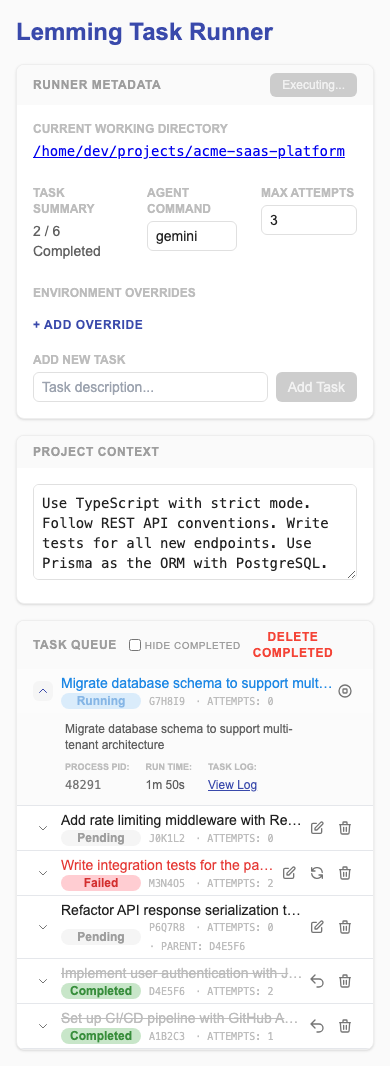
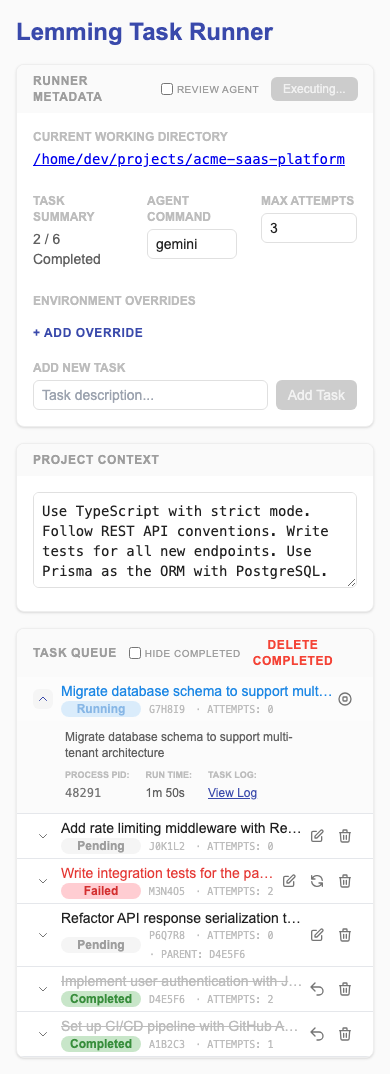
Add review agent that adapts the roadmap after each task
Introduces an optional reviewer that runs after each task execution to
evaluate roadmap progress and heal stuck tasks. Enabled via --review flag
on CLI or the "Review Agent" checkbox in the web UI.

diff --git a/src/lemming/web/index.html b/src/lemming/web/index.html
@@ -18,16 +18,22 @@
         <section class="mb-4 bg-white rounded-lg shadow-sm border border-gray-200 overflow-hidden shrink-0" aria-labelledby="metadata-heading">
             <div class="py-2 px-4 border-b border-gray-200 bg-gray-50 flex justify-between items-center">
                 <h2 id="metadata-heading" class="text-xs font-semibold text-gray-500 uppercase tracking-wider">Runner Metadata</h2>
-                <button 
-                    type="submit" 
-                    form="run-form" 
-                    :prop:disabled="loopRunning"
-                    :attr:class="'px-3 py-1 transition duration-200 border-none rounded-md text-xs font-medium whitespace-nowrap ' + (loopRunning ? 'bg-gray-400 cursor-not-allowed text-gray-200' : 'bg-indigo-600 text-white hover:bg-indigo-700')"
-                    :attr:title="loopRunning ? 'Tasks are already executing' : 'Execute autonomous tasks'" 
-                    aria-label="Execute Tasks"
-                >
-                    {{ loopRunning ? 'Executing...' : 'Execute Tasks' }}
-                </button>
+                <div class="flex items-center gap-3">
+                    <label class="flex items-center gap-1 cursor-pointer shrink-0" title="Run a reviewer agent after each task to adapt the roadmap">
+                        <input type="checkbox" :bind="reviewEnabled" :on:change="saveReviewPreference()" class="rounded border-gray-300 text-indigo-600 focus:ring-indigo-500 h-3 w-3" aria-label="Enable review mode">
+                        <span class="font-medium text-gray-500 uppercase tracking-wider text-10px">Review Agent</span>
+                    </label>
+                    <button
+                        type="submit"
+                        form="run-form"
+                        :prop:disabled="loopRunning"
+                        :attr:class="'px-3 py-1 transition duration-200 border-none rounded-md text-xs font-medium whitespace-nowrap ' + (loopRunning ? 'bg-gray-400 cursor-not-allowed text-gray-200' : 'bg-indigo-600 text-white hover:bg-indigo-700')"
+                        :attr:title="loopRunning ? 'Tasks are already executing' : 'Execute autonomous tasks'"
+                        aria-label="Execute Tasks"
+                    >
+                        {{ loopRunning ? 'Executing...' : 'Execute Tasks' }}
+                    </button>
+                </div>
             </div>
             <div class="p-4 space-y-4">
                 <form class="flex flex-wrap gap-6 items-start" :on:submit.prevent="runLemming()" id="run-form" aria-label="Run autonomous loop">

diff --git a/src/lemming/web/index.js b/src/lemming/web/index.js
@@ -31,6 +31,7 @@
       $.maxAttempts = Storage.get("lemming_max_attempts", 3);
       $.envOverrides = []; // Will hydrate below
       $.hideCompleted = Storage.get("lemming_hide_completed", false);
+      $.reviewEnabled = Storage.get("lemming_review_enabled", false);
       $.toasts = [];
       $.expanded = {};
       $.loopRunning = false;
@@ -172,6 +173,9 @@
       };
       $.saveHideCompletedPreference = function () {
         Storage.set("lemming_hide_completed", this.hideCompleted);
+      };
+      $.saveReviewPreference = function () {
+        Storage.set("lemming_review_enabled", this.reviewEnabled);
       };
 
       let envSaveTimeout;
@@ -327,6 +331,7 @@
         const payload = {
           agent: this.selectedAgent,
           env: Object.keys(env).length > 0 ? env : undefined,
+          review: this.reviewEnabled,
         };
 
         if (this.maxAttempts) {

diff --git a/src/lemming/main.py b/src/lemming/main.py
@@ -410,6 +410,63 @@ def reset(ctx: click.Context, task_id: str):
         ctx.exit(1)
 
 
+def _run_reviewer(
+    tasks_file: pathlib.Path,
+    finished_task_id: str,
+    agent_name: str,
+    yolo: bool,
+    prompt_arg: str | None,
+    agent_args: tuple,
+    no_defaults: bool,
+    verbose: bool,
+) -> None:
+    """Runs the reviewer agent to evaluate and adapt the roadmap.
+
+    Args:
+        tasks_file: Path to the tasks YAML file.
+        finished_task_id: ID of the task that just finished.
+        agent_name: The CLI agent to invoke.
+        yolo: If True, skip agent confirmations.
+        prompt_arg: Explicit prompt argument for the agent.
+        agent_args: Raw arguments passed directly to the agent.
+        no_defaults: Skip default flag injection.
+        verbose: If True, echo reviewer output.
+    """
+    data = tasks.load_tasks(tasks_file)
+    finished_task = next((t for t in data.tasks if t.id == finished_task_id), None)
+    if not finished_task:
+        return
+
+    if verbose:
+        click.echo("\n--- Running roadmap review ---")
+
+    prompt = agent.prepare_review_prompt(data, finished_task, tasks_file)
+
+    if verbose:
+        click.secho("\n=== Reviewer Prompt ===", fg="magenta", bold=True)
+        click.echo(prompt)
+        click.secho("========================\n", fg="magenta", bold=True)
+
+    # Use a synthetic task ID for the reviewer log so it doesn't pollute task logs
+    review_id = f"review-{finished_task_id}"
+    cmd = agent.build_agent_command(
+        agent_name, prompt, yolo, prompt_arg, agent_args, no_defaults, verbose=verbose,
+    )
+
+    try:
+        returncode, stdout, stderr = agent.run_agent_with_heartbeat(
+            cmd, tasks_file, review_id, verbose,
+            echo_fn=lambda line: click.echo(line, nl=False),
+        )
+        if verbose:
+            if returncode == 0:
+                click.echo("Reviewer finished.")
+            else:
+                click.echo(f"Reviewer exited with code {returncode}.")
+    except Exception as e:
+        click.echo(f"Reviewer error: {e}")
+
+
 @cli.command(
     short_help="Run the autonomous task execution loop",
 )
@@ -445,6 +502,11 @@ def reset(ctx: click.Context, task_id: str):
     default=None,
     help="Argument to precede the prompt (e.g. '--message'). If omitted, uses agent defaults.",
 )
+@click.option(
+    "--review/--no-review",
+    default=False,
+    help="Run a reviewer agent after each task to adapt the roadmap.",
+)
 @click.argument("agent_args", nargs=-1, type=click.UNPROCESSED)
 @click.pass_context
 def run(
@@ -456,6 +518,7 @@ def run(
     env: tuple,
     no_defaults: bool,
     prompt_arg: str | None,
+    review: bool,
     agent_args: tuple,
 ) -> None:
     """Starts the orchestrator loop to autonomously execute pending tasks.
@@ -496,10 +559,31 @@ def run(
         task_id = current_task.id
 
         if current_task.attempts >= max_attempts:
-            click.echo(
-                f"\nTask {task_id} failed after {max_attempts} attempts. Aborting run."
-            )
-            break
+            if review:
+                # Give the reviewer a chance to heal the task before aborting
+                click.echo(
+                    f"\nTask {task_id} reached {max_attempts} attempts. Running reviewer..."
+                )
+                _run_reviewer(
+                    tasks_file, task_id, agent_name, yolo, prompt_arg,
+                    agent_args, no_defaults, verbose,
+                )
+                # Re-check: if the reviewer reset/edited/replaced the task, continue
+                data = tasks.load_tasks(tasks_file)
+                healed_task = next((t for t in data.tasks if t.id == task_id), None)
+                if healed_task and healed_task.attempts >= max_attempts:
+                    click.echo(
+                        f"Task {task_id} still at max attempts after review. Aborting run."
+                    )
+                    break
+                # Reviewer healed it (reset attempts, deleted it, etc.) — continue the loop
+                click.echo(f"Reviewer intervened on task {task_id}. Continuing...")
+                continue
+            else:
+                click.echo(
+                    f"\nTask {task_id} failed after {max_attempts} attempts. Aborting run."
+                )
+                break
 
         # Add a small random jitter to avoid race conditions between multiple instances
         time.sleep(random.uniform(0.1, 0.5))
@@ -598,6 +682,13 @@ def run(
                         f"Waiting {retry_delay} seconds before next attempt to avoid rate limits..."
                     )
                 time.sleep(retry_delay)
+
+        # Run the reviewer after each task execution
+        if review:
+            _run_reviewer(
+                tasks_file, task_id, agent_name, yolo, prompt_arg,
+                agent_args, no_defaults, verbose,
+            )
 
 
 def parse_timeout(t_str: str) -> float:

diff --git a/src/lemming/agent.py b/src/lemming/agent.py
@@ -208,6 +208,56 @@ def run_agent_with_heartbeat(
     return process.returncode, "".join(full_log), ""
 
 
+def prepare_review_prompt(
+    data: tasks.Roadmap, finished_task: tasks.Task, tasks_file: pathlib.Path
+) -> str:
+    """Prepares the reviewer prompt after a task finishes.
+
+    Args:
+        data: The current Roadmap.
+        finished_task: The Task that just finished executing.
+        tasks_file: Path to the tasks YAML file.
+
+    Returns:
+        The fully rendered reviewer prompt string.
+    """
+    roadmap_str = f"## Project Context\n{data.context or 'No context provided.'}\n\n"
+
+    roadmap_str += "## All Tasks\n"
+    for t in data.tasks:
+        if t.status == "completed":
+            marker = "[COMPLETED]"
+        elif t.status == "in_progress":
+            marker = "[IN PROGRESS]"
+        elif t.attempts > 0:
+            marker = f"[PENDING - {t.attempts} attempt(s) so far]"
+        else:
+            marker = "[PENDING]"
+
+        roadmap_str += f"- {marker} ({t.id}) {t.description}\n"
+        if t.outcomes:
+            for o in t.outcomes:
+                roadmap_str += f"  - {o}\n"
+
+    finished_str = f"Task ID: {finished_task.id}\n"
+    finished_str += f"Description: {finished_task.description}\n"
+    finished_str += f"Result: {finished_task.status}\n"
+    finished_str += f"Attempts: {finished_task.attempts}\n"
+    if finished_task.outcomes:
+        finished_str += "Outcomes:\n"
+        for o in finished_task.outcomes:
+            finished_str += f"- {o}\n"
+
+    tasks_file_str = shlex.quote(str(tasks_file))
+    prompt_template = load_prompt("reviewer")
+    return (
+        prompt_template.replace("{{roadmap}}", roadmap_str)
+        .replace("{{finished_task}}", finished_str)
+        .replace("{{tasks_file_name}}", tasks_file.name)
+        .replace("{{tasks_file_path}}", tasks_file_str)
+    )
+
+
 def prepare_prompt(
     data: tasks.Roadmap, task: tasks.Task, tasks_file: pathlib.Path
 ) -> str:

diff --git a/src/lemming/api.py b/src/lemming/api.py
@@ -56,6 +56,7 @@ class RunRequest(pydantic.BaseModel):
     agent: str | None = "gemini"
     env: dict[str, str] | None = None
     max_attempts: int | None = None
+    review: bool = False
 
 
 @app.get("/api/data", response_model=tasks.ProjectData)
@@ -192,6 +193,9 @@ def run_loop(request: RunRequest):
 
     if request.agent:
         cmd.extend(["--agent", request.agent])
+
+    if request.review:
+        cmd.append("--review")
 
     env = os.environ.copy()
     if request.env:

diff --git a/src/lemming/prompts/reviewer.md b/src/lemming/prompts/reviewer.md
@@ -1,0 +1,42 @@
+You are a roadmap reviewer for the Lemming task orchestrator. A task has just finished executing, and you must decide whether the roadmap needs adjustment.
+
+### Current Roadmap State
+{{roadmap}}
+### Task That Just Finished
+{{finished_task}}
+### Available Commands
+Use the Lemming CLI to make changes. Do NOT edit `{{tasks_file_name}}` directly.
+
+```
+lemming --tasks-file {{tasks_file_path}} add "<description>"          # Add a new task
+lemming --tasks-file {{tasks_file_path}} add "<description>" --index N # Insert at position N
+lemming --tasks-file {{tasks_file_path}} edit <id> --description "..." # Rewrite a task
+lemming --tasks-file {{tasks_file_path}} delete <id>                   # Remove a task
+lemming --tasks-file {{tasks_file_path}} reset <id>                    # Clear attempts/outcomes for retry
+lemming --tasks-file {{tasks_file_path}} outcome <id> "<finding>"      # Record a finding
+```
+
+### Your Role
+
+**Default behavior: do nothing.** If the roadmap is progressing normally, exit immediately without running any commands. Unnecessary changes are harmful — they waste time, reset working state, and add confusion. Silence is the correct response when things are on track.
+
+Act only when you observe one of these situations:
+
+1. **A task has exhausted its retries and keeps failing for the same reason.** The outcomes reveal a recurring blocker that retrying won't fix. In this case, you may:
+   - Rewrite the task description with a different approach (`edit --description`)
+   - Reset the task so it gets fresh attempts (`reset`)
+   - Insert a prerequisite task that unblocks it (`add --index`)
+   - Remove it if it's no longer relevant (`delete`)
+
+2. **The project context states a clear goal, all pending tasks are complete, but the goal is not yet fully achieved.** In this case, add the minimum set of concrete tasks needed to close the gap. Write thorough, self-contained descriptions — each task starts with a fresh context and only sees the roadmap and file system.
+
+3. **A completed task's outcomes reveal that remaining pending tasks are now unnecessary or incorrect.** For example, a task discovered that a library already provides functionality that a later task was going to implement manually. In this case, delete or rewrite the affected tasks.
+
+**Do NOT:**
+- Add tasks speculatively or "just in case"
+- Rewrite tasks that haven't been attempted yet — let them run first
+- Add review/verification tasks unless the project context explicitly calls for validation
+- Duplicate work that's already covered by existing pending tasks
+- Make changes based on what you think *might* go wrong
+
+After making changes (or deciding no changes are needed), exit immediately.
